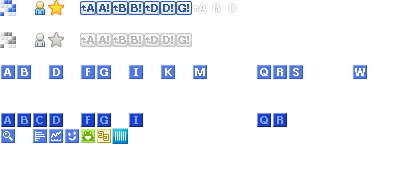
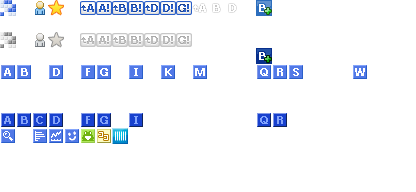
ステータスバーのブックマーク追加アイコンを変更。

Changed region(s): [[0.5938, 0.25, 0.6562, 0.3438], [0.5938, 0.0, 0.6562, 0.0938]]

diff --git a/chrome/skin/classic/hatenabar.css b/chrome/skin/classic/hatenabar.css
@@ -263,5 +263,5 @@ textbox[type="autocomplete"]:not([enablehistory="true"]) > .hatenabar-autocomple
 
 #hatenabar-bookmark-status {
     list-style-image: url("chrome://hatenabar/skin/icons.png");
-    -moz-image-region: rect(0px, 144px, 16px, 128px);
+    -moz-image-region: rect(0px, 272px, 16px, 256px);
 }
